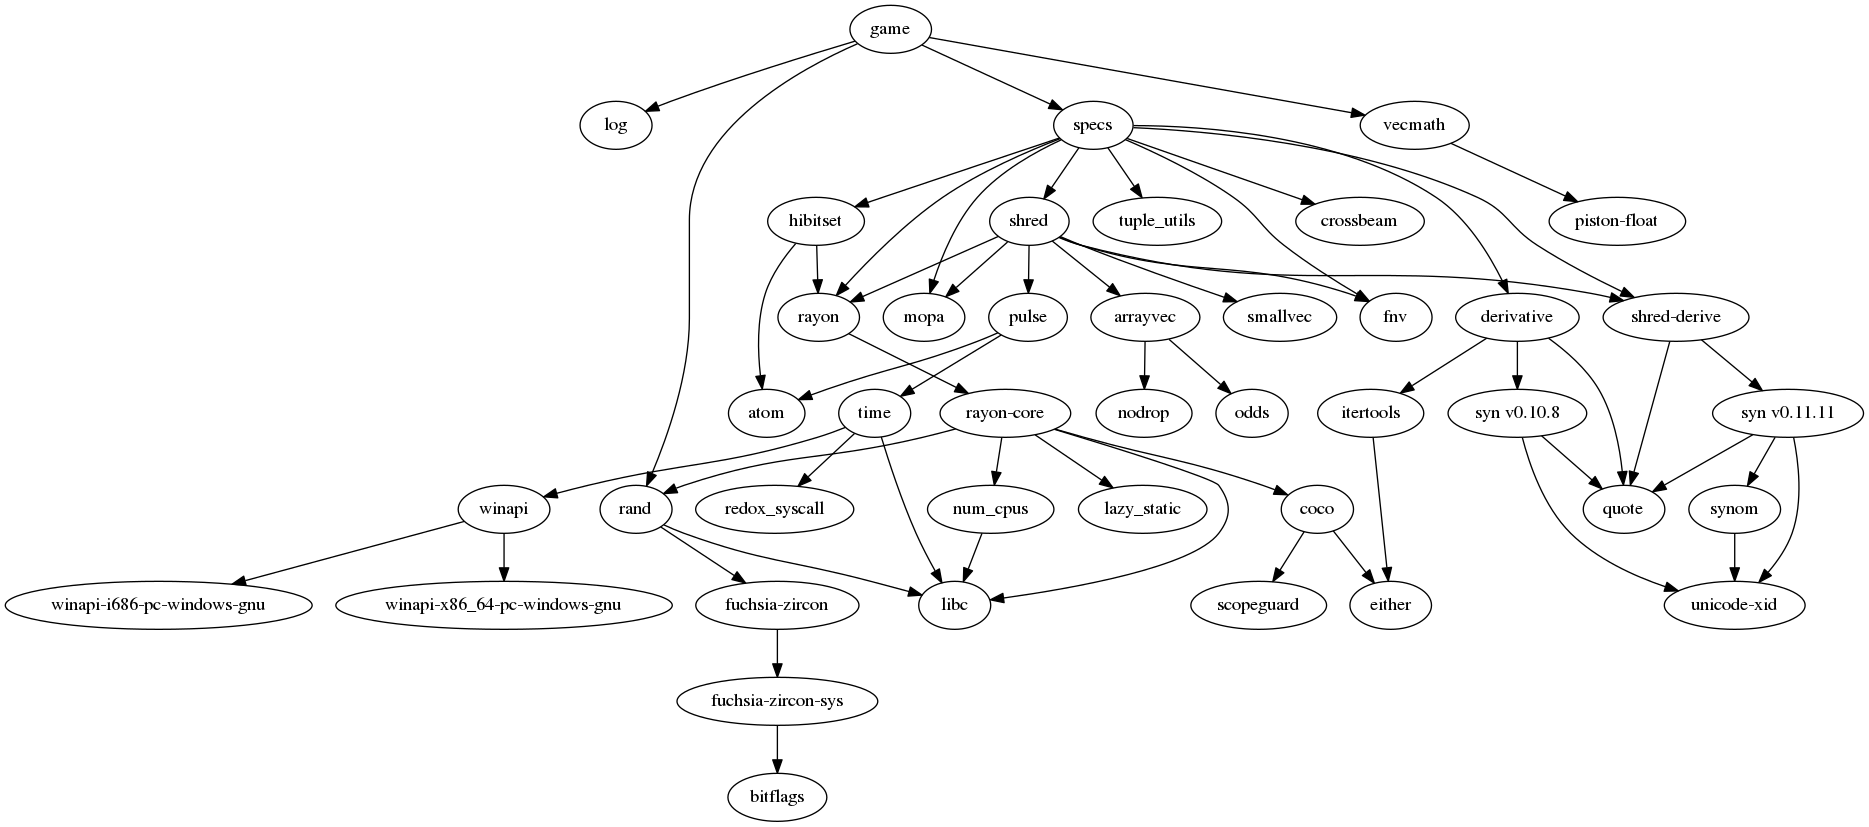
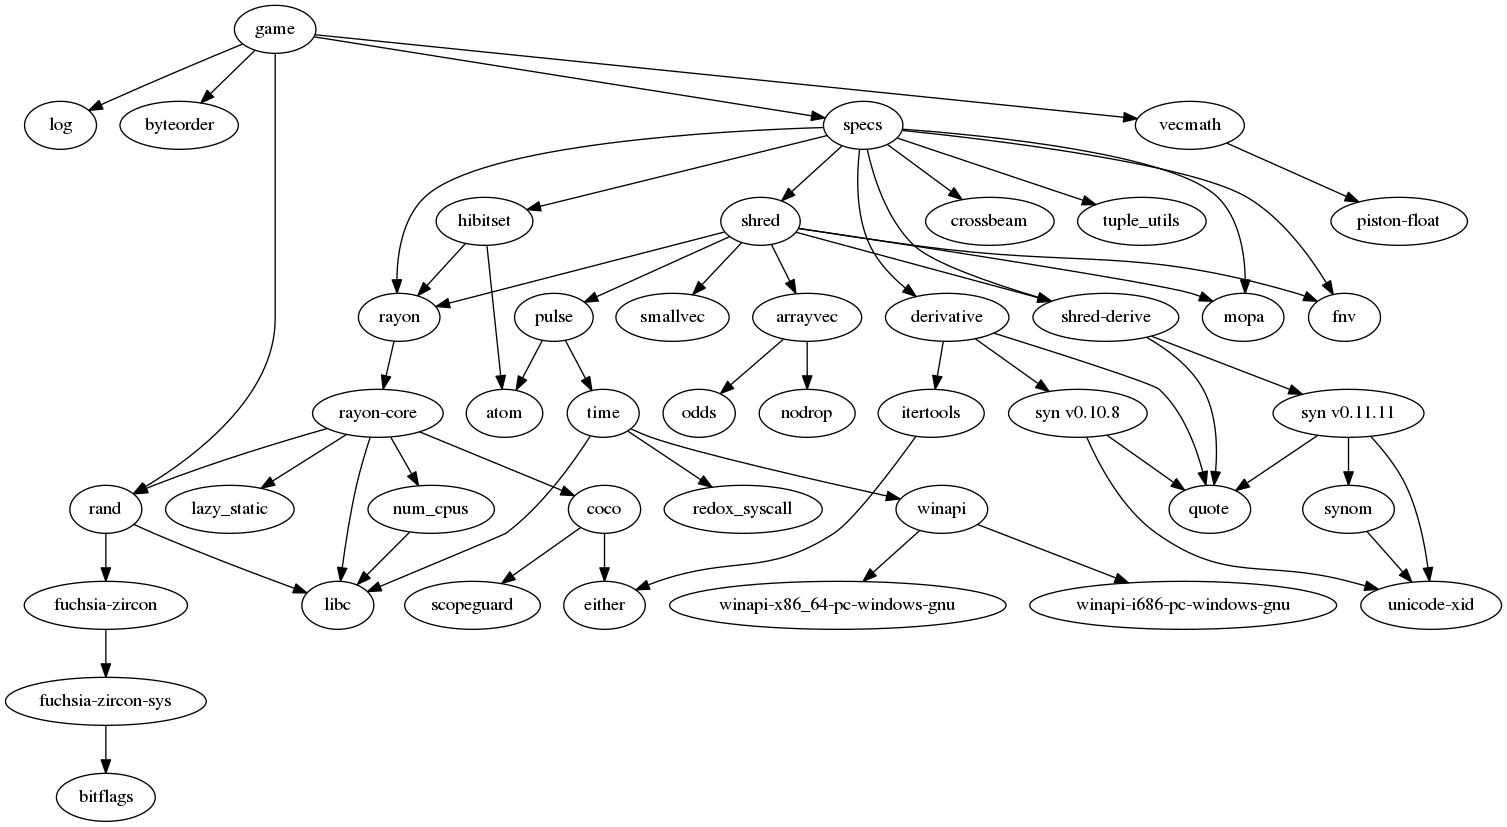
WIP

diff --git a/src/lib.rs b/src/lib.rs
@@ -7,7 +7,7 @@ extern crate vecmath;
 
 pub mod asteroid;
 pub mod input;
-#[cfg(not(target_os = "emscripten"))]
+#[cfg(feature = "network")]
 pub mod net;
 pub mod physics;
 pub mod ship;
@@ -18,7 +18,57 @@ use input::{Input, Press};
 use physics::{Collided, Collision, DeltaTime, LocalControl, Position,
               SysCollision, SysSimu, Velocity};
 use ship::{Projectile, Ship, SysProjectile, SysShip};
-use specs::{Dispatcher, DispatcherBuilder, Join, LazyUpdate, World};
+use specs::{Dispatcher, DispatcherBuilder, LazyUpdate, World};
+#[cfg(feature = "network")]
+use std::net::SocketAddr;
+
+/// This describes the role of the local machine in the game.
+///
+/// This is available as a specs Resource and can be used to decide what to
+/// simulate.
+#[derive(Debug, Clone, Copy, PartialEq, Eq)]
+pub enum Role {
+    Standalone,
+    Server,
+    Client,
+}
+
+impl Role {
+    /// Whether the local machine is authoritative over the world.
+    ///
+    /// If this is false, the local machine should delegate important decisions
+    /// to the server, and only interpolate the game state.
+    pub fn authoritative(&self) -> bool {
+        match self {
+            &Role::Standalone => true,
+            &Role::Server => true,
+            &Role::Client => false,
+        }
+    }
+
+    /// Whether the local machine is showing the world graphically.
+    ///
+    /// If this is false, there is no point bothering about animations or
+    /// particles that don't affect the game, since no one will see them.
+    pub fn graphical(&self) -> bool {
+        match self {
+            &Role::Standalone => true,
+            &Role::Server => false,
+            &Role::Client => true,
+        }
+    }
+
+    /// Whether the game is networked.
+    ///
+    /// If this is false, there is no need for any networking.
+    pub fn networked(&self) -> bool {
+        match self {
+            &Role::Standalone => false,
+            &Role::Server => true,
+            &Role::Client => true,
+        }
+    }
+}
 
 /// The game structure, containing globals not specific to frontend.
 pub struct Game {
@@ -30,7 +80,7 @@ pub struct Game {
 }
 
 impl Game {
-    pub fn new() -> Game {
+    fn new_common<'a, 'b>(role: Role) -> (World, DispatcherBuilder<'a, 'b>) {
         let mut world = World::new();
         world.register::<Position>();
         world.register::<Velocity>();
@@ -41,28 +91,77 @@ impl Game {
         world.register::<Projectile>();
         world.register::<Asteroid>();
 
-        let ship = Ship::create(
-            &world.entities(),
-            &world.read_resource::<LazyUpdate>(),
-        );
-        world.write::<LocalControl>().insert(ship, LocalControl);
+        if role.networked() {
+            #[cfg(feature = "network")]
+            fn add_network_components(world: &mut World, role: Role) {
+                world.register::<net::Replicated>();
+                world.register::<net::Dirty>();
+                world.register::<net::ConnectedClient>();
+            }
+            #[cfg(not(feature = "network"))]
+            fn add_network_components(_world: &mut World, _role: Role) {
+                panic!("Role is {:?} but networking is not compiled in");
+            }
+
+            add_network_components(&mut world, role);
+        }
 
         world.add_resource(DeltaTime(0.0));
         world.add_resource(Input::new());
+        world.add_resource(role);
 
         let dispatcher = DispatcherBuilder::new()
             .add(SysSimu, "simu", &[])
             .add(SysCollision, "collision", &[])
             .add(SysShip, "ship", &[])
             .add(SysProjectile, "projectile", &[])
-            .add(SysAsteroid::new(), "asteroid", &[])
-            .build();
+            .add(SysAsteroid::new(), "asteroid", &[]);
+
+        (world, dispatcher)
+    }
+
+    pub fn new_standalone() -> Game {
+        let (world, dispatcher) = Self::new_common(Role::Standalone);
+
+        let ship = Ship::create(
+            &world.entities(),
+            &world.read_resource::<LazyUpdate>(),
+        );
+        world.write::<LocalControl>().insert(ship, LocalControl);
+
+        Game {
+            world: world,
+            dispatcher: dispatcher.build(),
+            game_over: false,
+        }
+    }
+
+    #[cfg(feature = "network")]
+    pub fn new_server(port: u16) -> Game {
+        let (mut world, mut dispatcher) = Self::new_common(Role::Server);
+
+        dispatcher =
+            dispatcher.add(net::SysNetServer::new(port), "netserver", &[]);
+
+        Game {
+            world: world,
+            dispatcher: dispatcher.build(),
+            game_over: false,
+        }
+    }
+
+    #[cfg(feature = "network")]
+    pub fn new_client(address: SocketAddr) -> Game {
+        let (mut world, mut dispatcher) = Self::new_common(Role::Client);
+
+        dispatcher =
+            dispatcher.add(net::SysNetClient::new(address), "netclient", &[]);
 
         world.maintain();
 
         Game {
             world: world,
-            dispatcher: dispatcher,
+            dispatcher: dispatcher.build(),
             game_over: false,
         }
     }

diff --git a/src/net.rs b/src/net.rs
@@ -12,43 +12,6 @@ const MAX_MESSAGES_PER_FRAME: u16 = 5;
 
 type ORDER = byteorder::BigEndian;
 
-/// This describes the role of the local machine in the game.
-///
-/// This is available as a specs Resource and can be used to decide what to
-/// simulate.
-#[derive(Debug, Clone, Copy, PartialEq, Eq)]
-pub enum Role {
-    Standalone,
-    Server,
-    Client,
-}
-
-impl Role {
-    /// Whether the local machine is authoritative over the world.
-    ///
-    /// If this is false, the local machine should delegate important decisions
-    /// to the server, and only interpolate the game state.
-    pub fn authoritative(&self) -> bool {
-        match self {
-            &Role::Standalone => true,
-            &Role::Server => true,
-            &Role::Client => false,
-        }
-    }
-
-    /// Whether the local machine is showing the world graphically.
-    ///
-    /// If this is false, there is no point bothering about animations or
-    /// particles that don't affect the game, since no one will see them.
-    pub fn graphical(&self) -> bool {
-        match self {
-            &Role::Standalone => true,
-            &Role::Server => false,
-            &Role::Client => true,
-        }
-    }
-}
-
 /// The message exchanged by server and clients.
 enum Message {
     /// Message sent by a client to introduce itself.
@@ -123,8 +86,10 @@ impl Message {
                     info!("Invalid EntityUpdate length");
                     None
                 } else {
-                    Some(Message::EntityUpdate(rdr.read_u64::<ORDER>().unwrap(),
-                        msg[16..].into()))
+                    Some(Message::EntityUpdate(
+                        rdr.read_u64::<ORDER>().unwrap(),
+                        msg[16..].into(),
+                    ))
                 }
             }
             b"er" => {
@@ -132,7 +97,9 @@ impl Message {
                     info!("Invalid EntityRemove length");
                     None
                 } else {
-                    Some(Message::EntityRemove(rdr.read_u64::<ORDER>().unwrap()))
+                    Some(Message::EntityRemove(
+                        rdr.read_u64::<ORDER>().unwrap(),
+                    ))
                 }
             }
             _ => None,
@@ -154,11 +121,11 @@ impl Message {
             &Message::Ping(bytes) => {
                 msg.extend_from_slice(b"pi");
                 msg.extend_from_slice(&bytes);
-            },
+            }
             &Message::Pong(bytes) => {
                 msg.extend_from_slice(b"po");
                 msg.extend_from_slice(&bytes);
-            },
+            }
             &Message::EntityUpdate(id, ref bytes) => {
                 msg.extend_from_slice(b"eu");
                 msg.write_u64::<ORDER>(id).unwrap();
@@ -243,7 +210,6 @@ impl SysNetServer {
     fn send(&self, msg: Message, addr: &SocketAddr) -> io::Result<usize> {
         self.socket.send_to(&msg.bytes(), addr)
     }
-
 }
 
 impl<'a> System<'a> for SysNetServer {
@@ -271,12 +237,16 @@ impl<'a> System<'a> for SysNetServer {
 
             if let Some(msg) = Message::parse(&buffer[..len]) {
                 match msg {
-                    Message::ClientHello => unimplemented!(),
-                    Message::Ping(bytes) => chk(self.send(Message::Pong(bytes), &src)),
+                    Message::ClientHello => {
+                        warn!("Got ClientHello from {}", src);
+                        unimplemented!();
+                    }
+                    Message::Ping(bytes) => {
+                        chk(self.send(Message::Pong(bytes), &src))
+                    }
                     Message::Pong(bytes) => unimplemented!(),
                     Message::EntityUpdate(id, bytes) => unimplemented!(),
-                    Message::ServerHello(_, _)
-                    | Message::EntityRemove(_) => {
+                    Message::ServerHello(_, _) | Message::EntityRemove(_) => {
                         info!("Invalid message from {}", src)
                     }
                 }
@@ -347,7 +317,9 @@ impl<'a> System<'a> for SysNetClient {
             if let Some(msg) = Message::parse(&buffer[..len]) {
                 match msg {
                     Message::ServerHello(id, secret) => unimplemented!(),
-                    Message::Ping(bytes) => chk(self.send(Message::Pong(bytes))),
+                    Message::Ping(bytes) => {
+                        chk(self.send(Message::Pong(bytes)))
+                    }
                     Message::Pong(bytes) => unimplemented!(),
                     Message::EntityUpdate(id, bytes) => unimplemented!(),
                     Message::EntityRemove(id) => unimplemented!(),

diff --git a/client-piston/src/main.rs b/client-piston/src/main.rs
@@ -68,7 +68,7 @@ fn main() {
         gl: gl,
         glyph_cache: glyph_cache,
         fps_counter: FpsCounter::new(),
-        game: Game::new(),
+        game: Game::new_client("127.0.0.1:34244".parse().unwrap()),
     };
     app.game.world.add_resource(Viewport::new([width, height]));
 

diff --git a/server/src/main.rs b/server/src/main.rs
@@ -20,7 +20,7 @@ fn main() {
     color_logger::init(LogLevel::Info).unwrap();
     info!("Starting up");
 
-    let mut game = Game::new();
+    let mut game = Game::new_server(34244);
 
     let mut previous = SystemTime::now();
     let mut timer = 0.0;
